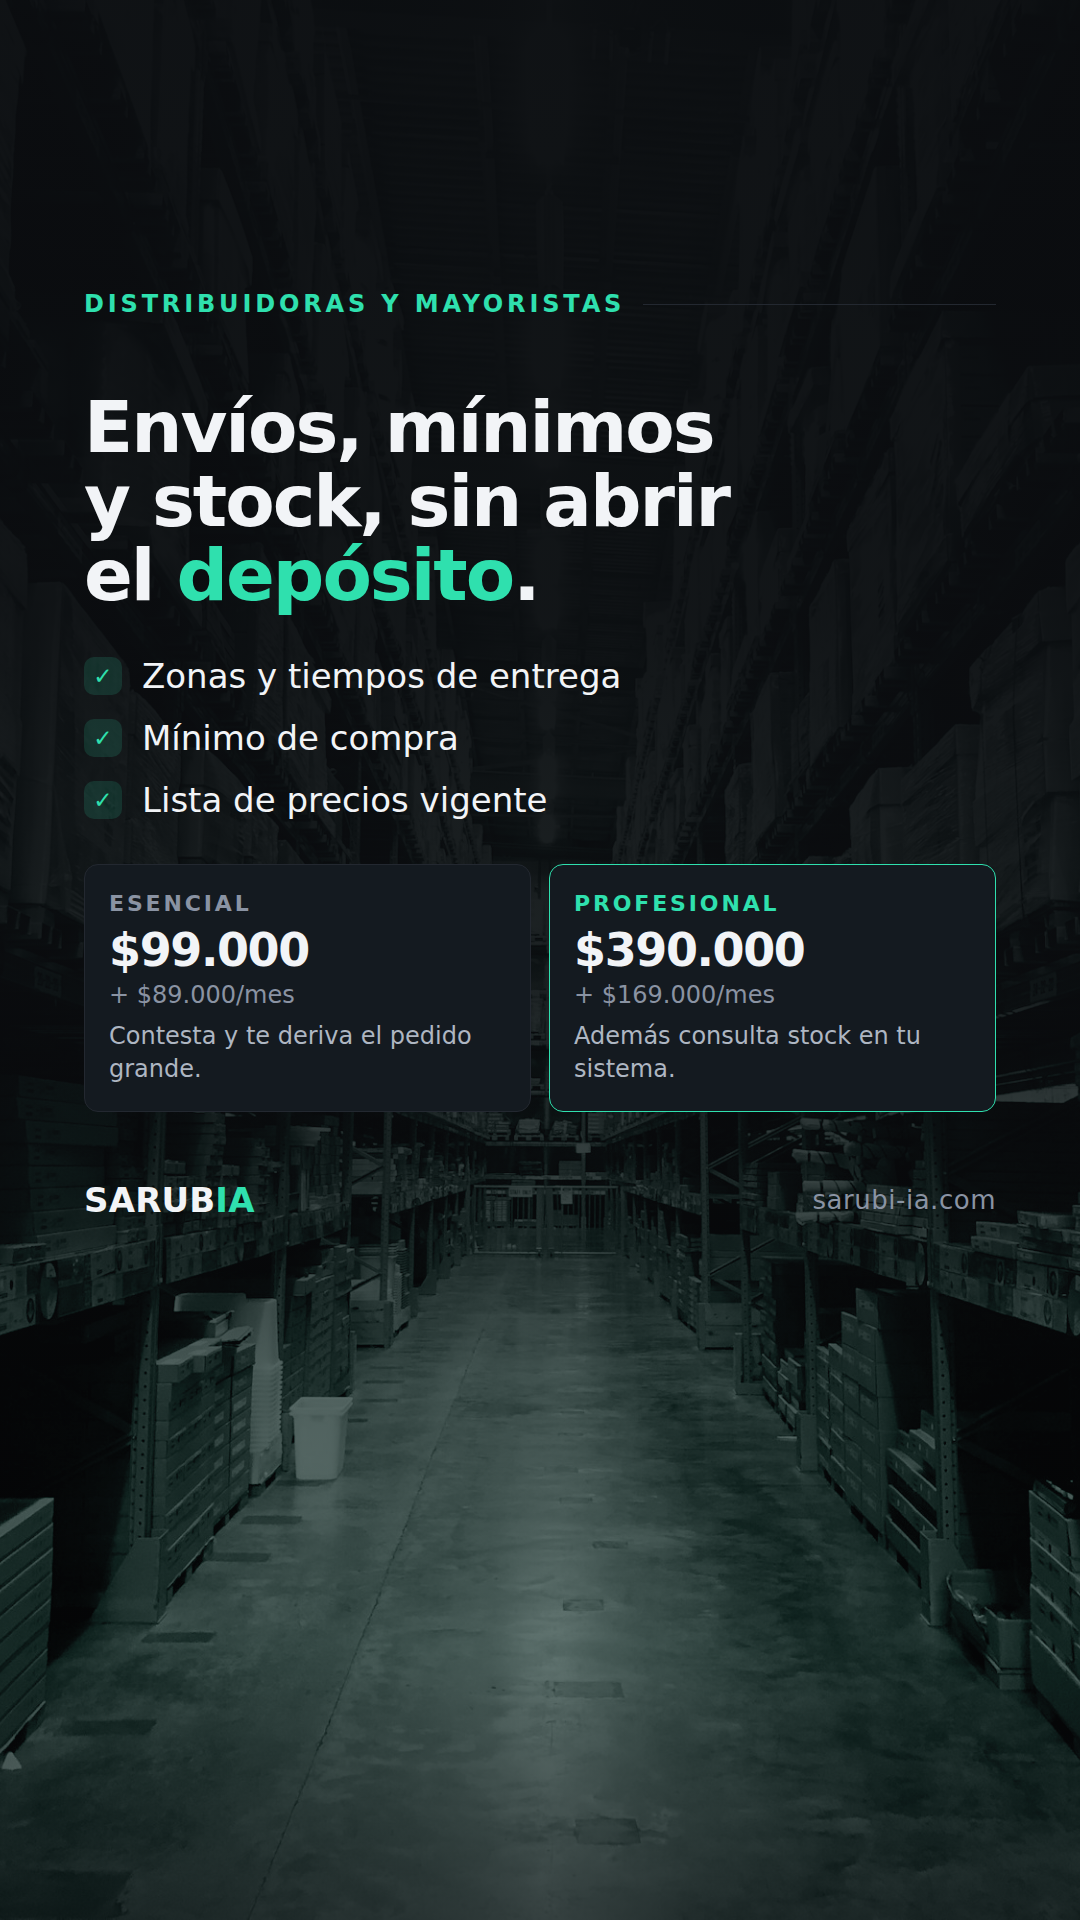
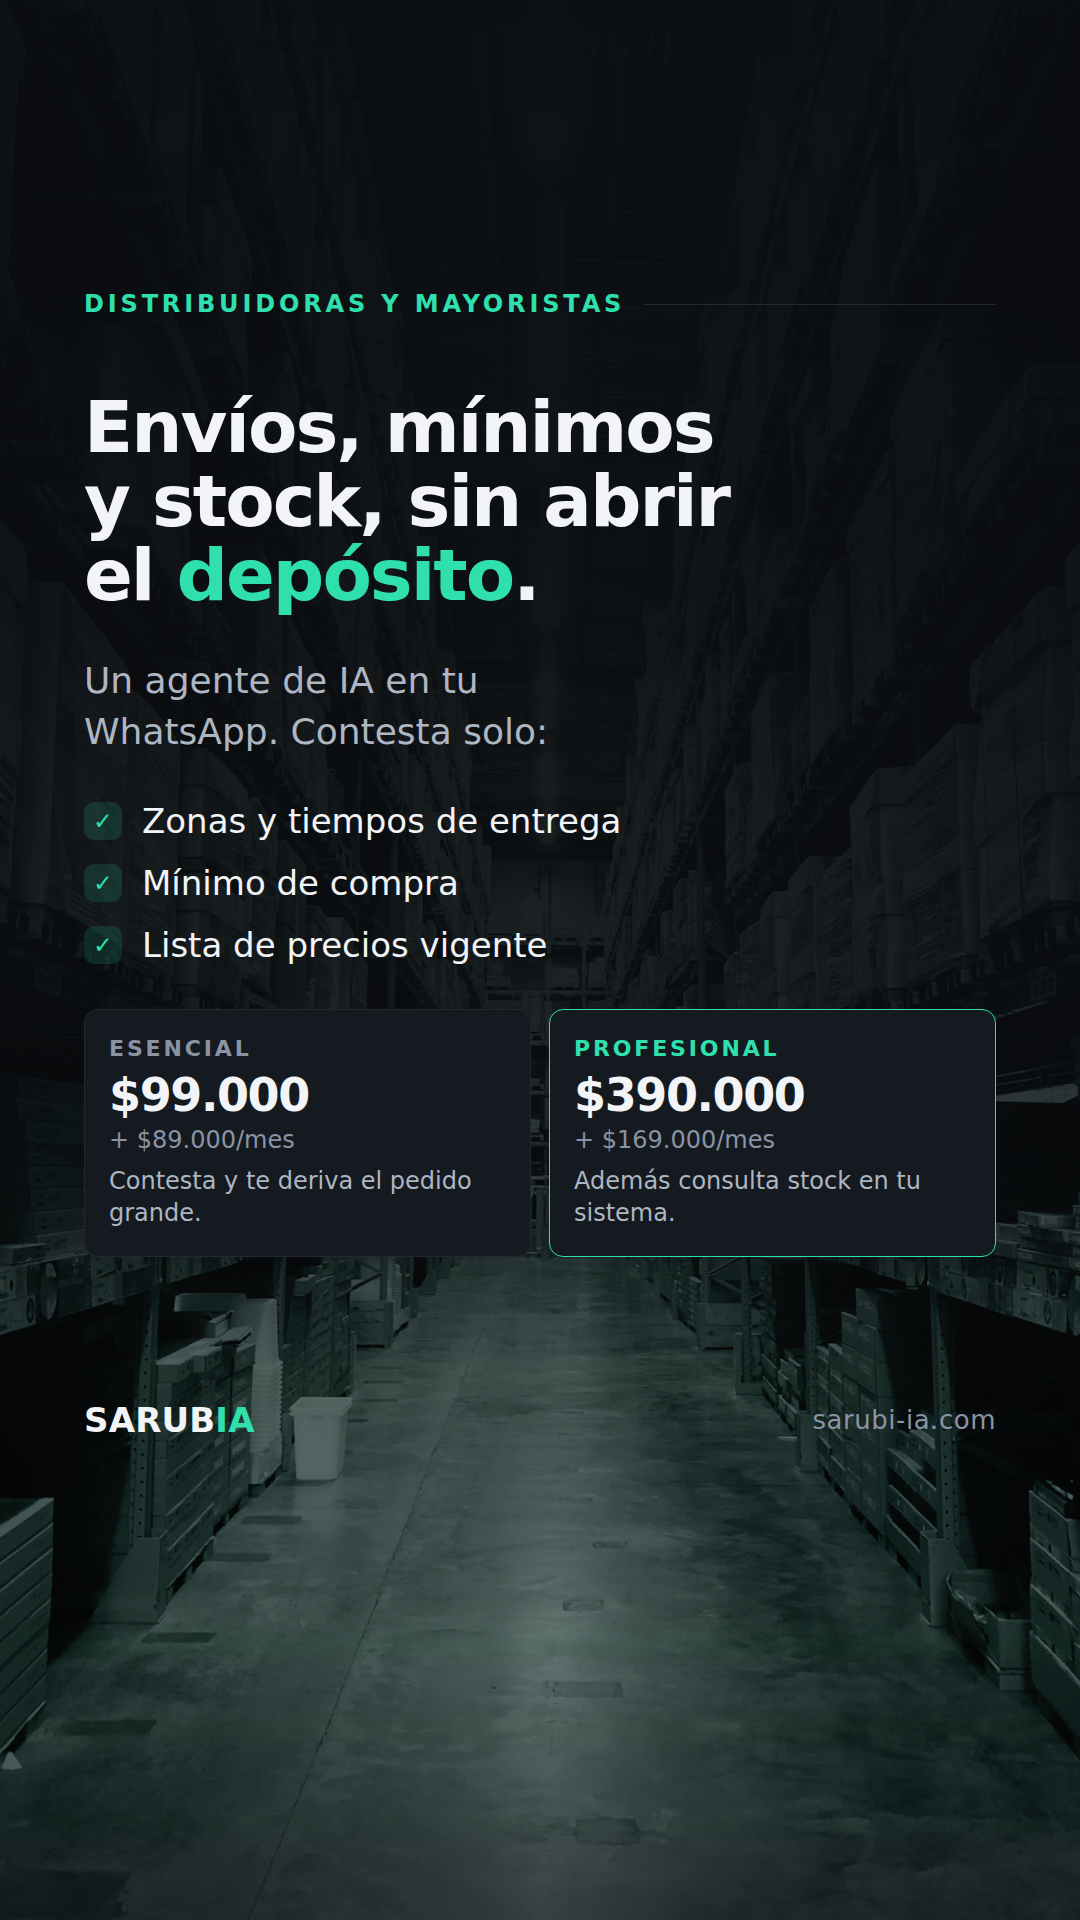
Decir en cada placa qué es el producto, no solo qué resuelve
Las siete decian el beneficio y ninguna decia de que se trata. Un distribuidor
leia "Envios, minimos y stock, sin abrir el deposito" y no tenia forma de saber
que se hablaba de su WhatsApp: sonaba a una promesa suelta.

Ahora va un renglon entre el titulo y los checks: "Un agente de IA en tu
WhatsApp. Contesta solo:". Termina en dos puntos a proposito, asi los tres
checks se leen como la continuacion de la frase y no como una lista aparte.

Ese renglon lleva mas ancho que un subtitulo comun. Con el ancho de siempre
caia en tres renglones cortos y se leia como otra lista, justo lo contrario de
lo que tiene que hacer.

Claude-Session: https://claude.ai/code/session_01FpebnBDAeZwhMGF9Jn3pu8

diff --git a/instagram/lib/plantilla.js b/instagram/lib/plantilla.js
@@ -147,6 +147,11 @@ const bloques = {
   // con tu sistema — que es exactamente la decisión que tiene que tomar.
   rubro(d) {
     let h = `<h1 class="e-${d.escala || 'm'}">${texto(d.titulo)}</h1>`;
+    // Sin esta línea, la placa dice el beneficio y nunca dice qué es. Un
+    // distribuidor lee "sin abrir el depósito" y no tiene forma de saber que
+    // se habla de su WhatsApp. Va antes de los checks y termina en dos puntos,
+    // así la lista de abajo se lee como la continuación de la frase.
+    if (d.sub) h += `<p class="sub producto">${texto(d.sub)}</p>`;
     if (d.checks && d.checks.length) {
       h += `<div class="checks">` + d.checks
         .map((c) => `<div class="check"><span class="tick">✓</span>${texto(c)}</div>`)
@@ -627,6 +632,13 @@ function estilos(marca) {
   .claro .remate{color:var(--verde-fuerte);}
   .f-post .remate{font-size:32px;}
   .f-historia .remate{font-size:38px;}
+
+  /* --- rubro --- */
+  /* El renglón que dice qué es el producto necesita más ancho que un subtítulo
+     común: en tres renglones cortos se lee como una lista y deja de sonar a
+     una frase. */
+  .f-historia .sub.producto{max-width:26ch;}
+  .f-post .sub.producto{max-width:30ch;}
 
   /* --- rubro: los dos planes, uno al lado del otro --- */
   .planes{display:grid;grid-template-columns:1fr 1fr;}
